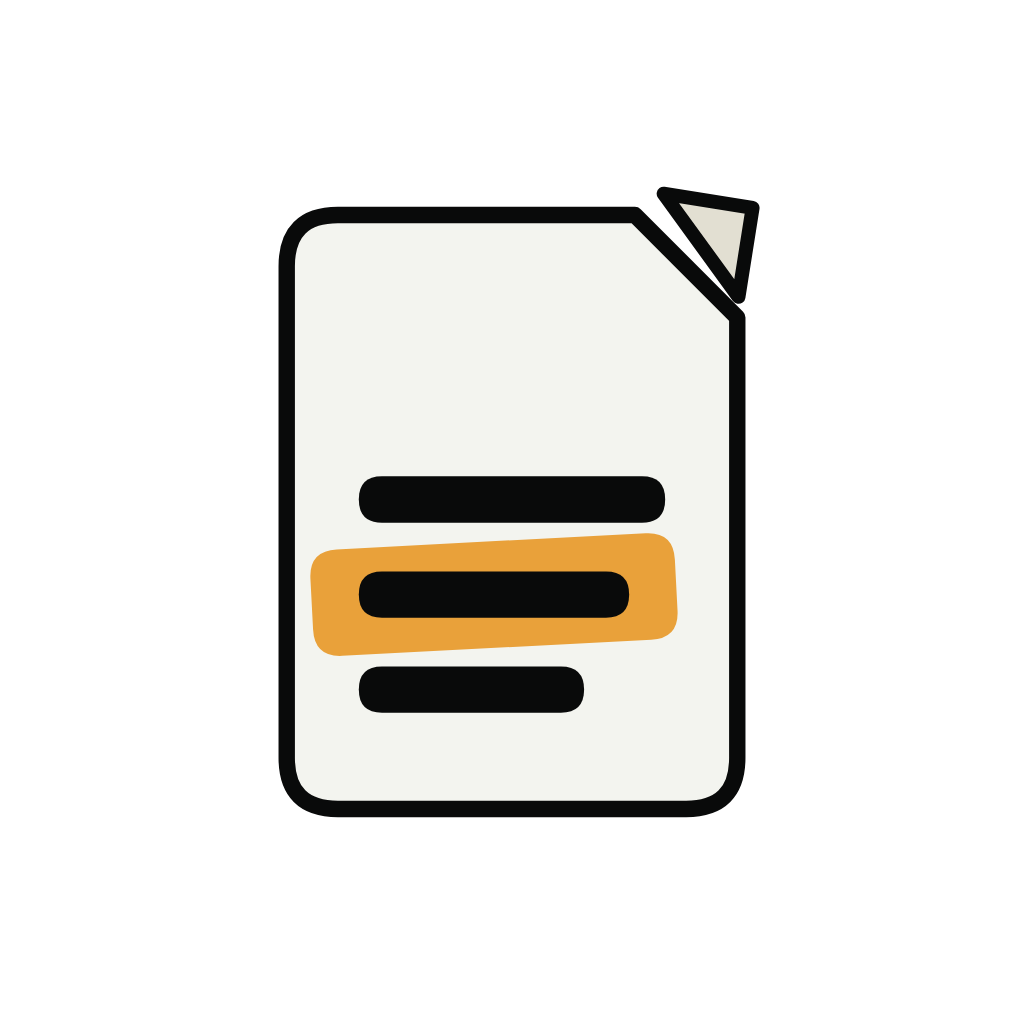
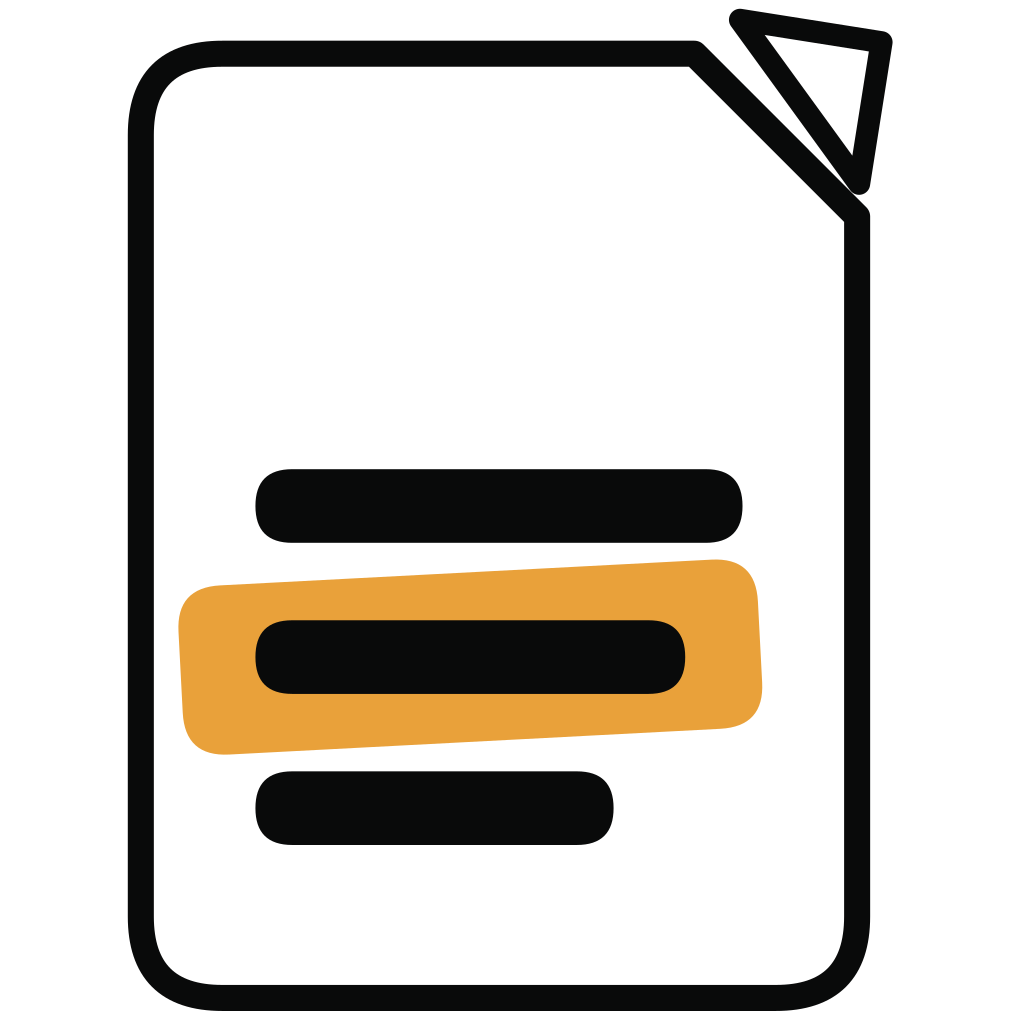
refactor(brand): the mark is an outline, drawn on whatever it sits on
The updated artwork drops the filled sheet and the filled corner: both are
fill="none" now, so the mark is ink on the page rather than a tile pasted
over it, and the ground shows through it.

That has a consequence the filled version did not. Near-black ink on the
dark theme's sidebar, or on the landing footer's dark ground, is nothing at
all -- the previous mark got away with it by carrying its own light paper.
The ink is a token for exactly this reason, so it is re-pointed light in the
dark theme and in the footer, which is dark whatever the theme. The
highlighter keeps its accent on either ground.

The supplied icons replace the earlier pair and are cropped tight to the
artwork rather than sitting in the middle of a 1000-unit canvas. Windows
kept both copies of each file on drop; the duplicates are removed.

The supplied favicon carries an embedded C2PA provenance block, about 7.7KB
of base64 on a file the browser fetches for every page. The favicon here is
the same geometry written clean; the artwork is identical.

Changed region(s): [[0.125, 0.0, 0.875, 1.0]]

diff --git a/frontend/src/components/Logo.tsx b/frontend/src/components/Logo.tsx
@@ -1,3 +1,5 @@
+import './Logo.css';
+
 type LogoProps = {
   /** Rendered height in px; the width follows the mark's own proportions. */
   size?: number;
@@ -5,9 +7,13 @@ type LogoProps = {
 };
 
 // The ExamMind mark: a sheet with a turned corner and a highlighter stroke
-// across the middle line. Its colours are the palette's own -- paper, ink and
-// accent -- so it is drawn rather than tinted, and it does not take
-// currentColor the way the lucide glyph it replaced did.
+// across the middle line.
+//
+// The sheet is unfilled, so the mark is ink drawn straight onto whatever it
+// sits on rather than a tile pasted over it. That is why the ink is a token:
+// on a dark ground -- the dark theme's sidebar, the landing footer -- near
+// black ink on near black is nothing at all, so it is re-pointed there. The
+// highlighter keeps its accent on either ground.
 //
 // The source artwork is on a 1000x1000 canvas with the mark sitting in the
 // middle of it. The viewBox below is cropped to the artwork's real bounds
@@ -15,10 +21,8 @@ type LogoProps = {
 // box instead of floating in empty padding at small sizes.
 const VIEW_BOX = '268 177 480 629';
 
-const PAPER = 'var(--logo-paper, #f3f4ef)';
 const INK = 'var(--logo-ink, #090a0a)';
 const ACCENT = 'var(--logo-accent, #e9a13a)';
-const FOLD = 'var(--logo-fold, #e2dfd2)';
 
 export default function Logo({ size = 34, className = '' }: LogoProps) {
   return (
@@ -34,7 +38,7 @@ export default function Logo({ size = 34, className = '' }: LogoProps) {
       {/* The sheet, with the corner cut away at the top right. */}
       <path
         d="M 330,210 L 620,210 L 720,310 L 720,740 Q 720,790 670,790 L 330,790 Q 280,790 280,740 L 280,260 Q 280,210 330,210 Z"
-        fill={PAPER}
+        fill="none"
         stroke={INK}
         strokeWidth="16"
         strokeLinejoin="round"
@@ -72,7 +76,7 @@ export default function Logo({ size = 34, className = '' }: LogoProps) {
       <g transform="translate(648.06,189.19) rotate(9)">
         <path
           d="M 0,0 L 88,0 L 88,88 Z"
-          fill={FOLD}
+          fill="none"
           stroke={INK}
           strokeWidth="13.6"
           strokeLinejoin="round"

diff --git a/frontend/src/components/Logo.css b/frontend/src/components/Logo.css
@@ -1,0 +1,7 @@
+/* The mark has no paper of its own, so its ink has to follow the ground it is
+   drawn on. Light ground keeps the ink dark; the dark theme, and the landing
+   footer which is dark whatever the theme, flip it. */
+.em-logo{display:block}
+
+:root[data-theme="dark"] .em-logo{--logo-ink:var(--em-ink, #f2f3ef)}
+.lp-footer .em-logo{--logo-ink:#f3f4ef}
